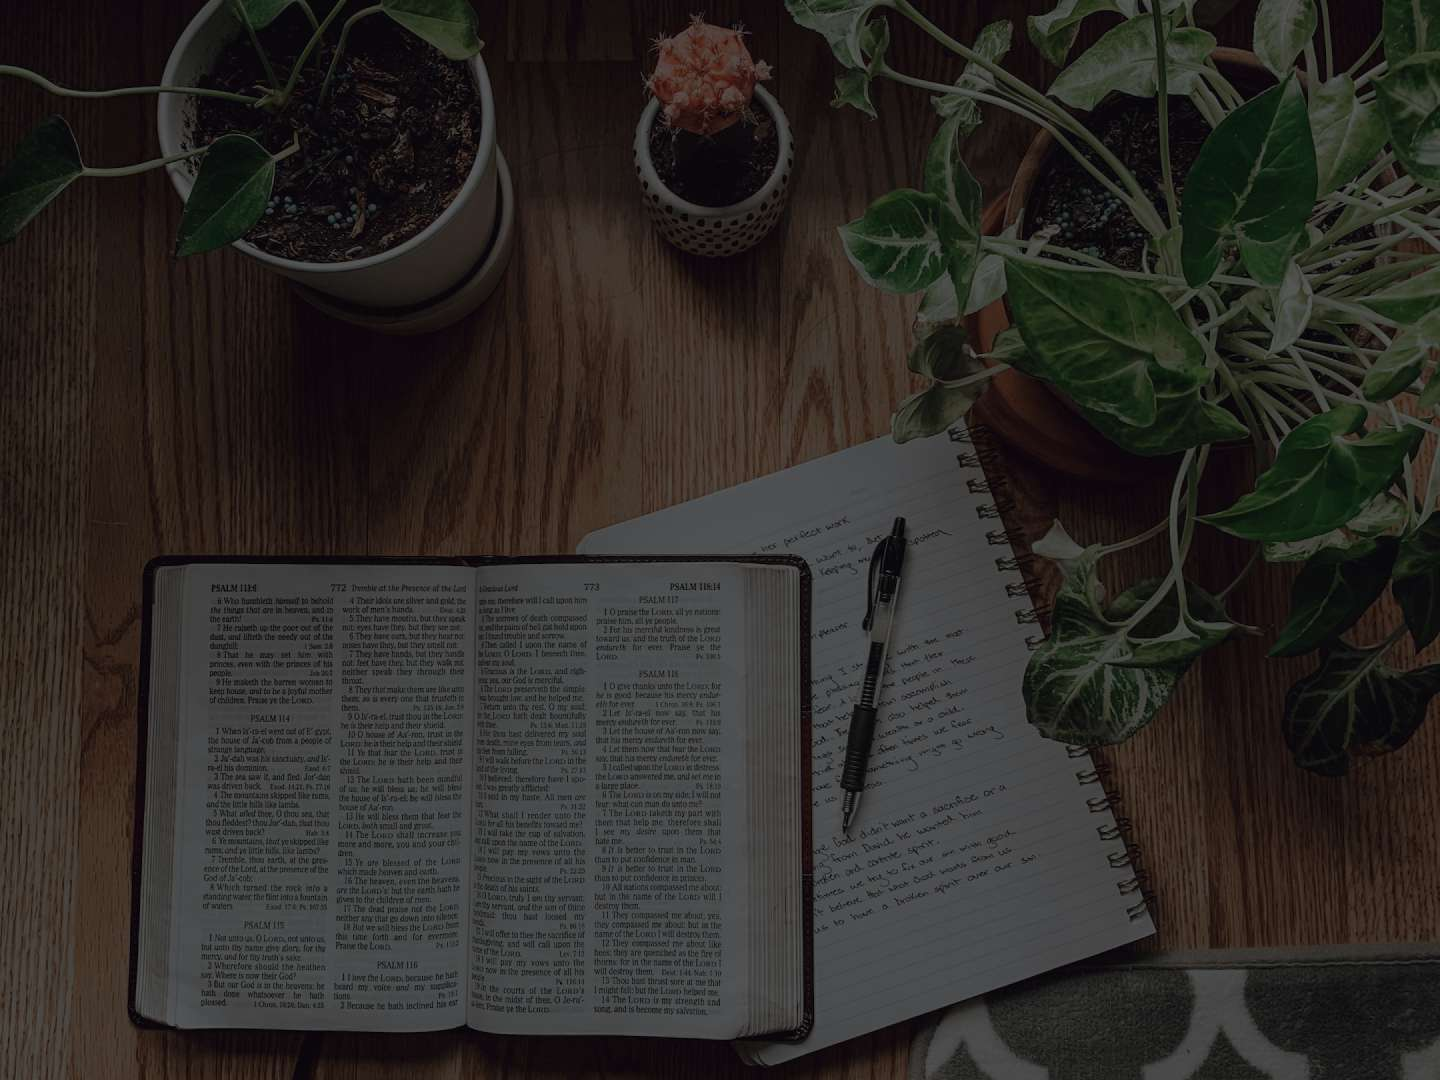
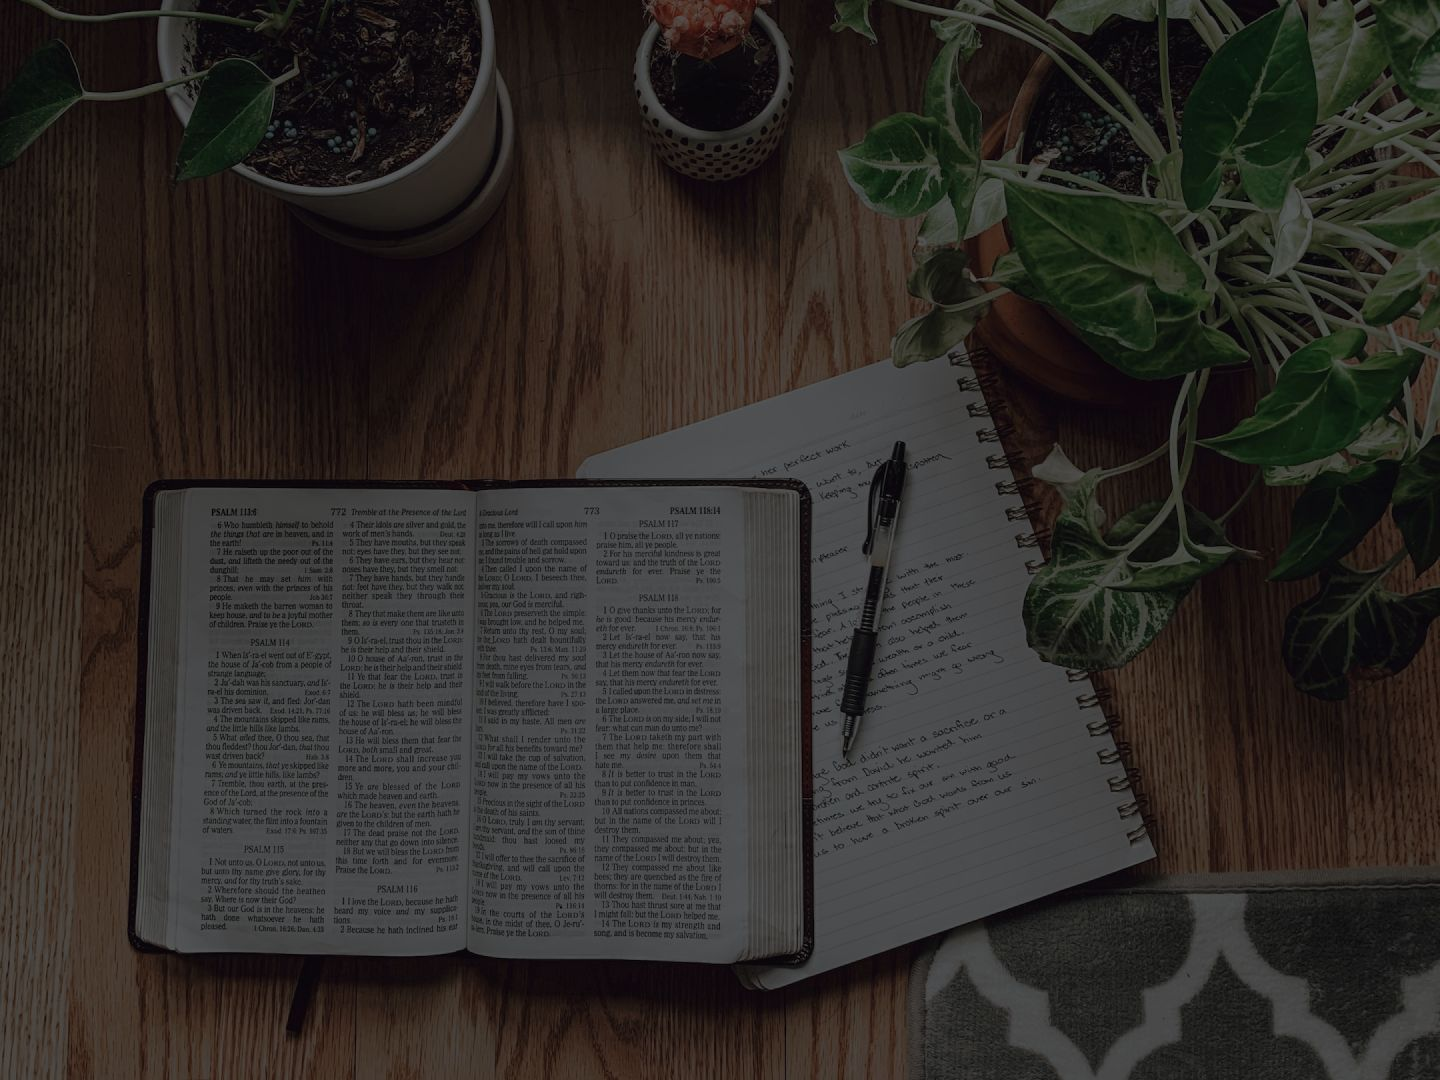
Increase quality of cover images and updated cropping

diff --git a/tools/process-images.ts b/tools/process-images.ts
@@ -44,7 +44,7 @@ async function convertCovers(srcDir: string, destDir: string) {
         position: sharp.gravity.center,
       })
       .modulate({ brightness: 0.4, saturation: 0.4 })
-      .jpeg({ quality: 60 })
+      .jpeg({ quality: 80 })
       .toFile(
         path.resolve(
           destDir,
@@ -64,7 +64,7 @@ async function convertCovers(srcDir: string, destDir: string) {
         fit: sharp.fit.cover,
         position: sharp.gravity.center,
       })
-      .jpeg({ quality: 50 })
+      .jpeg({ quality: 80 })
       .toFile(
         path.resolve(
           destDir,
